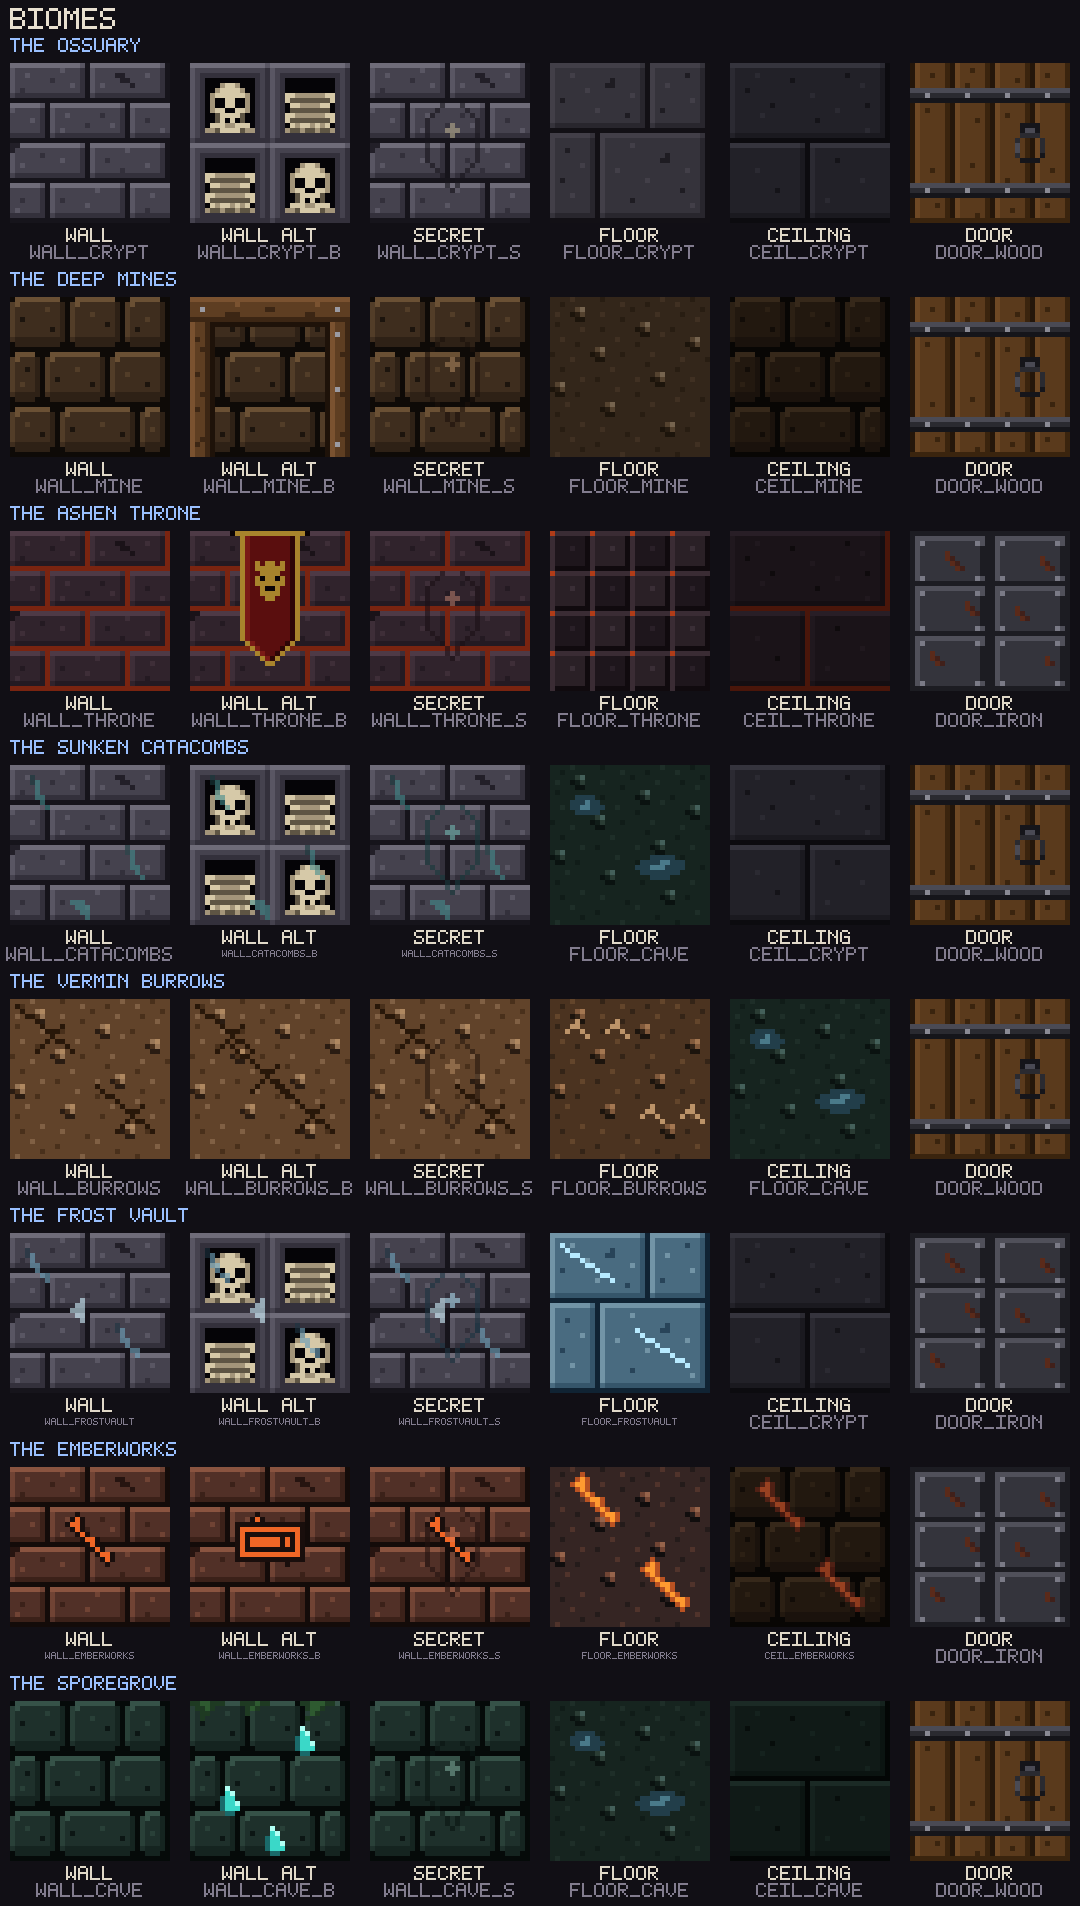
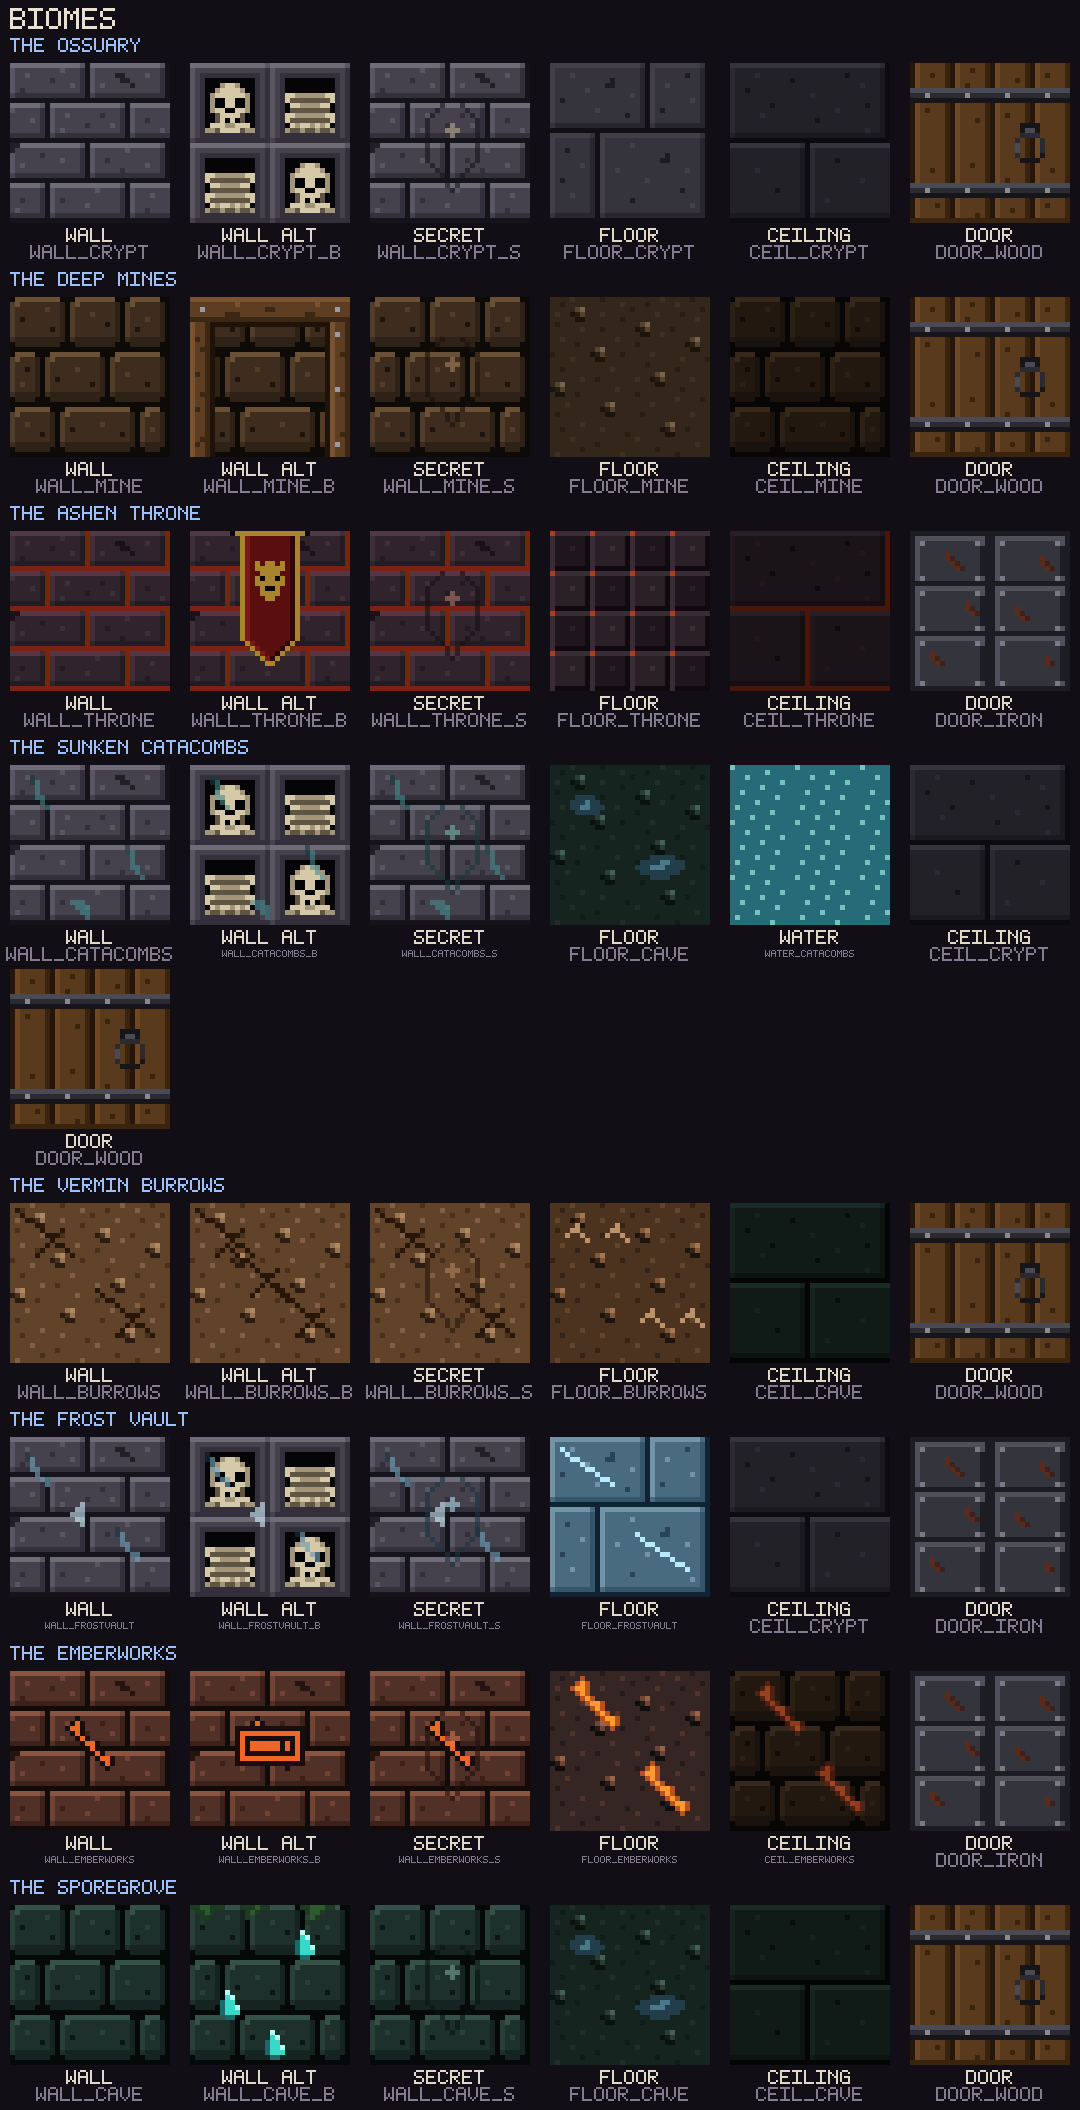
Add shallow Catacombs water and splash audio

diff --git a/src/art/textures.ts b/src/art/textures.ts
@@ -414,6 +414,14 @@ const PUDDLE_ROWS = rows(`
   ................................
 `);
 
+// A full, very dark water film. The renderer draws it with low opacity over
+// the floor; the sparse bright pixels catch the light as small ripples.
+const WATER_ROWS = Array.from({ length: 32 }, (_, y) => {
+  const row = Array(32).fill('q');
+  for (let x = (y * 7) % 11; x < 32; x += 13) row[x] = 'r';
+  return row.join('');
+});
+
 // Throne-room banner with the Ashen King's sigil.
 const pad10 = (seg: string) => '..........' + seg + '..........';
 const SIGIL = ['rgrggrgr', 'rggggggr', 'rrggggrr', 'rgkggkgr', 'rggggggr', 'rrgkkgrr', 'rrggggrr', 'rrrggrrr'];
@@ -611,6 +619,7 @@ const TIMBER = { x: '#7a5230', w: '#5e3e22', y: '#3c2614', z: '#1e1209', n: '#9a
 const CAVE = { m: '#050a09', e: '#0c1614', a: '#152420', b: '#1e302b', c: '#294038', d: '#365248' };
 const CAVE_FLOOR = { e: '#0a1210', a: '#101c18', b: '#16241f', c: '#1e2e28', d: '#2a3c34', p: '#44605a' };
 const CAVE_CEIL = { m: '#030605', e: '#070d0b', a: '#0b1411', b: '#101a17', c: '#15221e', d: '#1b2a25' };
+const CATACOMB_WATER = { q: '#286b78', r: '#75c2bf' };
 
 const THRONE = { m: '#7a2410fa', e: '#1a1218', a: '#241a22', b: '#30232c', c: '#3e2e38', d: '#4e3a46' };
 const THRONE_FLOOR = { r: '#b03c18fa', d: '#3a2c34', b: '#1e161c', f: '#2a2026', g: '#3a2e36', a: '#100a0e', c: '#2a2028' };
@@ -653,6 +662,7 @@ export const TEXTURES: ArtDef[] = [
   { id: 'wall_cave_s', base: 'wall_cave', palette: CAVE_SECRET, rows: SECRET_MARK_ROWS },
   { id: 'floor_cave_dirt', palette: CAVE_FLOOR, rows: DIRT_ROWS },
   { id: 'floor_cave', base: 'floor_cave_dirt', palette: { p: '#223e4a', q: '#4a7a8a' }, rows: PUDDLE_ROWS },
+  { id: 'water_catacombs', palette: CATACOMB_WATER, rows: WATER_ROWS },
   { id: 'ceil_cave', palette: CAVE_CEIL, rows: SLAB_ROWS },
 
   // Themed variants that preserve the crypt silhouette while changing only

diff --git a/src/audio/sfx.ts b/src/audio/sfx.ts
@@ -6,8 +6,8 @@
 export type SfxName =
   | 'step' | 'swing' | 'hit' | 'crit' | 'hurt' | 'block' | 'door' | 'locked' | 'unlock'
   | 'pickup' | 'gold' | 'chest' | 'break' | 'death' | 'enemyDie' | 'stairs' | 'shoot'
-  | 'magic' | 'study' | 'winded' | 'secret' | 'ui' | 'craft' | 'drink' | 'alert' | 'miss' | 'sell' | 'recall' | 'parry'
-  | 'kingturn' | 'snuff';
+   | 'magic' | 'study' | 'winded' | 'secret' | 'ui' | 'craft' | 'drink' | 'alert' | 'miss' | 'sell' | 'recall' | 'parry'
+  | 'kingturn' | 'snuff' | 'splash';
 
 export interface PlayOpts {
   volume?: number;
@@ -264,6 +264,14 @@ class AudioEngine {
       case 'snuff':
         this.noiseBurst(o, 0.5, 'lowpass', 700, 120, 0.4, 1.2);
         this.noiseBurst(o, 0.9, 'highpass', 1800, 500, 0.16, 0.7, 0.05);
+        break;
+      // Water reads as a surface break plus the small rising plinks of
+      // entrained air bubbles, not as one envelope of white noise.
+      case 'splash':
+        this.noiseBurst(o, 0.11, 'bandpass', 1900 * r, 420, 0.28, 1.3);
+        this.noiseBurst(o, 0.045, 'highpass', 5200 * r, 1700, 0.12, 1, 0.012);
+        this.tone(o, 'sine', 760 * r, 1240 * r, 0.14, 0.11, 0.028);
+        this.tone(o, 'sine', 1180 * r, 1960 * r, 0.09, 0.07, 0.06);
         break;
       case 'ui':
         this.tone(o, 'square', 700, 700, 0.03, 0.08);

diff --git a/src/render/level-mesh.ts b/src/render/level-mesh.ts
@@ -140,6 +140,11 @@ export function buildLevel(floor: Floor, shared: Shared, ceilingTexture?: string
 
       B(biome.floor).quad([x0, 0, z0], [x1, 0, z0], [x1, 0, z1], [x0, 0, z1], [0, 1, 0]);
       B(ceiling).quad([x0, WALL_H, z0], [x1, WALL_H, z0], [x1, WALL_H, z1], [x0, WALL_H, z1], [0, -1, 0]);
+      if (biome.id === 'catacombs') {
+        B('water_catacombs').quad(
+          [x0, 0.018, z0], [x1, 0.018, z0], [x1, 0.018, z1], [x0, 0.018, z1], [0, 1, 0],
+        );
+      }
 
       if (t === PILLAR) {
         const p = 0.42 * TILE;
@@ -174,7 +179,11 @@ export function buildLevel(floor: Floor, shared: Shared, ceilingTexture?: string
   for (const [tex, b] of builders) {
     if (!b.idx.length) continue;
     const geo = b.build();
-    const mat = ps1Material(shared, artTexture(tex));
+    const water = tex === 'water_catacombs';
+    const mat = ps1Material(shared, artTexture(tex), water
+      ? { transparent: true, depthWrite: false, side: THREE.DoubleSide }
+      : undefined);
+    if (water) mat.uniforms.uOpacity.value = 0.16;
     geometries.push(geo);
     materials.push(mat);
     root.add(new THREE.Mesh(geo, mat));

diff --git a/src/__tests__/art.test.ts b/src/__tests__/art.test.ts
@@ -22,7 +22,7 @@ describe('pixel art', () => {
   });
 
   it('everything the data references exists', () => {
-    const needed = new Set<string>(['ic_blueprint', 'ic_key', 'ic_gold', 'door_locked', 'ui_frame']);
+    const needed = new Set<string>(['ic_blueprint', 'ic_key', 'ic_gold', 'door_locked', 'ui_frame', 'water_catacombs']);
     for (const m of MATERIALS) needed.add(m.icon);
     for (const b of ITEM_BASES) needed.add(b.icon);
     for (const c of CONSUMABLES) needed.add(c.icon);
@@ -131,7 +131,7 @@ describe('pixel art', () => {
 
   it('shows only the Burrows fallback ceiling on the biome sheet', () => {
     const burrows = sheets().find((s) => s.id === 'biomes')!.groups.find((g) => g.title === 'The Vermin Burrows')!;
-    expect(burrows.cells.filter((cell) => cell.label === 'ceiling').map((cell) => cell.id)).toEqual(['floor_cave']);
+    expect(burrows.cells.filter((cell) => cell.label === 'ceiling').map((cell) => cell.id)).toEqual(['ceil_cave']);
   });
 
   it('keeps the mine ceiling free of a repeated timber lintel', () => {

diff --git a/src/data/biomes.ts b/src/data/biomes.ts
@@ -57,7 +57,7 @@ export const BIOMES: BiomeDef[] = [
     wall: 'wall_burrows', wallAlt: 'wall_burrows_b', wallSecret: 'wall_burrows_s',
     // Burrows inherit the preceding floor's ground texture at render time.
     // Keep a cave floor as the depth-1 fallback, where no preceding floor exists.
-    floor: 'floor_burrows', ceiling: 'floor_cave', door: 'door_wood',
+    floor: 'floor_burrows', ceiling: 'ceil_cave', door: 'door_wood',
     fog: '#0e0904', ambient: '#3a2b1a', torch: '#ffbb70', torchDensity: 0.055,
     favoredEnemies: ['rat', 'bat', 'spider', 'goblin', 'tunnel_stalker'],
   },

diff --git a/src/world/world.ts b/src/world/world.ts
@@ -611,7 +611,6 @@ export class World {
   private arrive(): void {
     const p = this.player;
     this.anim.steps++;
-    this.sfx('step');
     this.reveal();
     const f = this.floor;
     const trap = trapAt(f, p.x, p.y);
@@ -620,6 +619,7 @@ export class World {
       if (this.run.outcome !== 'active') return;
     }
     const s = stairsAt(f, p.x, p.y);
+    this.sfx(biomeForFloor(f).id === 'catacombs' && !s ? 'splash' : 'step');
     if (s) {
       if (!s.down && this.run.depth === 1) {
         this.msg('You climb back into the daylight.', '#e8d8a0');

diff --git a/src/dev/art-sheets.ts b/src/dev/art-sheets.ts
@@ -145,6 +145,7 @@ const biomeGroups: SheetGroup[] = BIOMES.map((b) => ({
     { id: b.wallAlt, label: 'wall alt' },
     { id: b.wallSecret, label: 'secret' },
     { id: b.floor, label: 'floor' },
+    ...(b.id === 'catacombs' ? [{ id: 'water_catacombs', label: 'water' }] : []),
     // Burrows swaps this fallback for the preceding floor's texture at runtime.
     // The sheet only needs one representative tile; the transition logic is code.
     { id: b.ceiling, label: 'ceiling' },

diff --git a/docs/MECHANICS.md b/docs/MECHANICS.md
@@ -122,7 +122,7 @@ Every generated floor is checked: all walkable tiles reachable, keys reachable w
 |---|---|---|---|
 | 1–2 | The Ossuary | Wood | Stone brickwork, bone niches, warm torchlight |
 | 3–4 | The Deep Mines | Wood | Rubble walls, timber supports, dirt floors |
-| 1–3 | The Sunken Catacombs | Wood | Wet stone, cold fungus, drowned dead |
+| 1–3 | The Sunken Catacombs | Wood | Wet stone, shallow water that splashes underfoot, cold fungus, drowned dead |
 | 1–3 | The Vermin Burrows | Wood | Packed earth, roots, vermin and stalkers |
 | 3–5 | The Frost Vault | Iron | Blue stone, fractured ice, frostbound guards; frost creatures are favored and fire creatures do not spawn |
 | 3–5 | The Emberworks | Iron | Soot-black masonry, hot seams, fire creatures; fire creatures are favored and frost creatures do not spawn |
